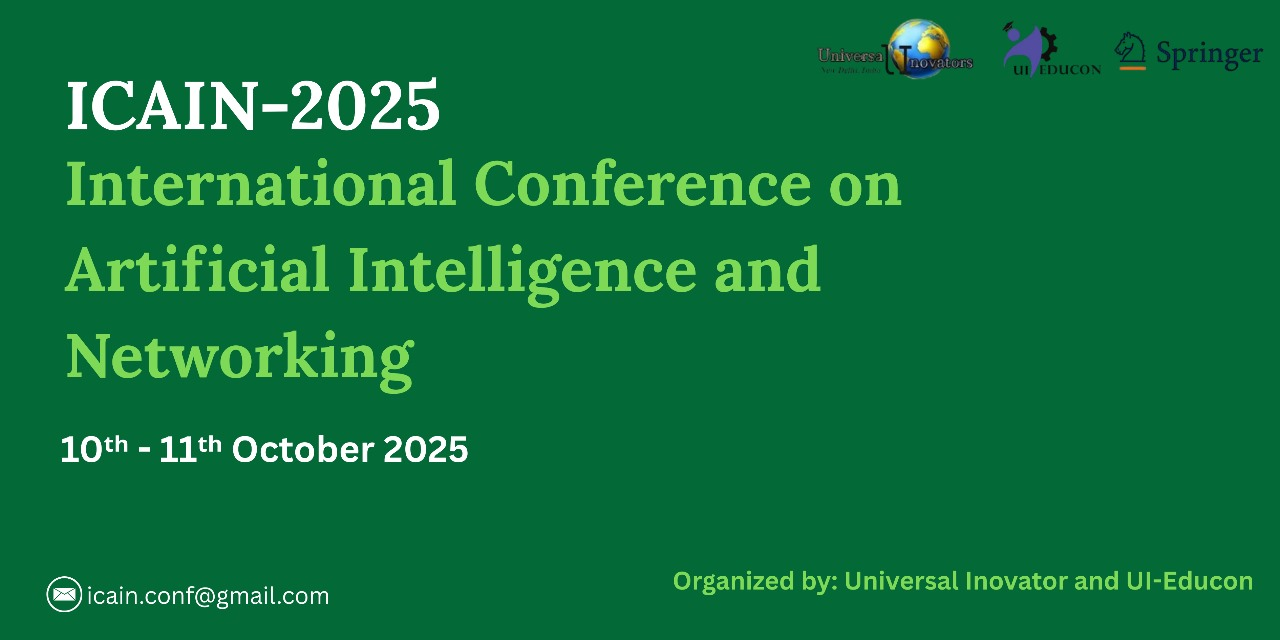
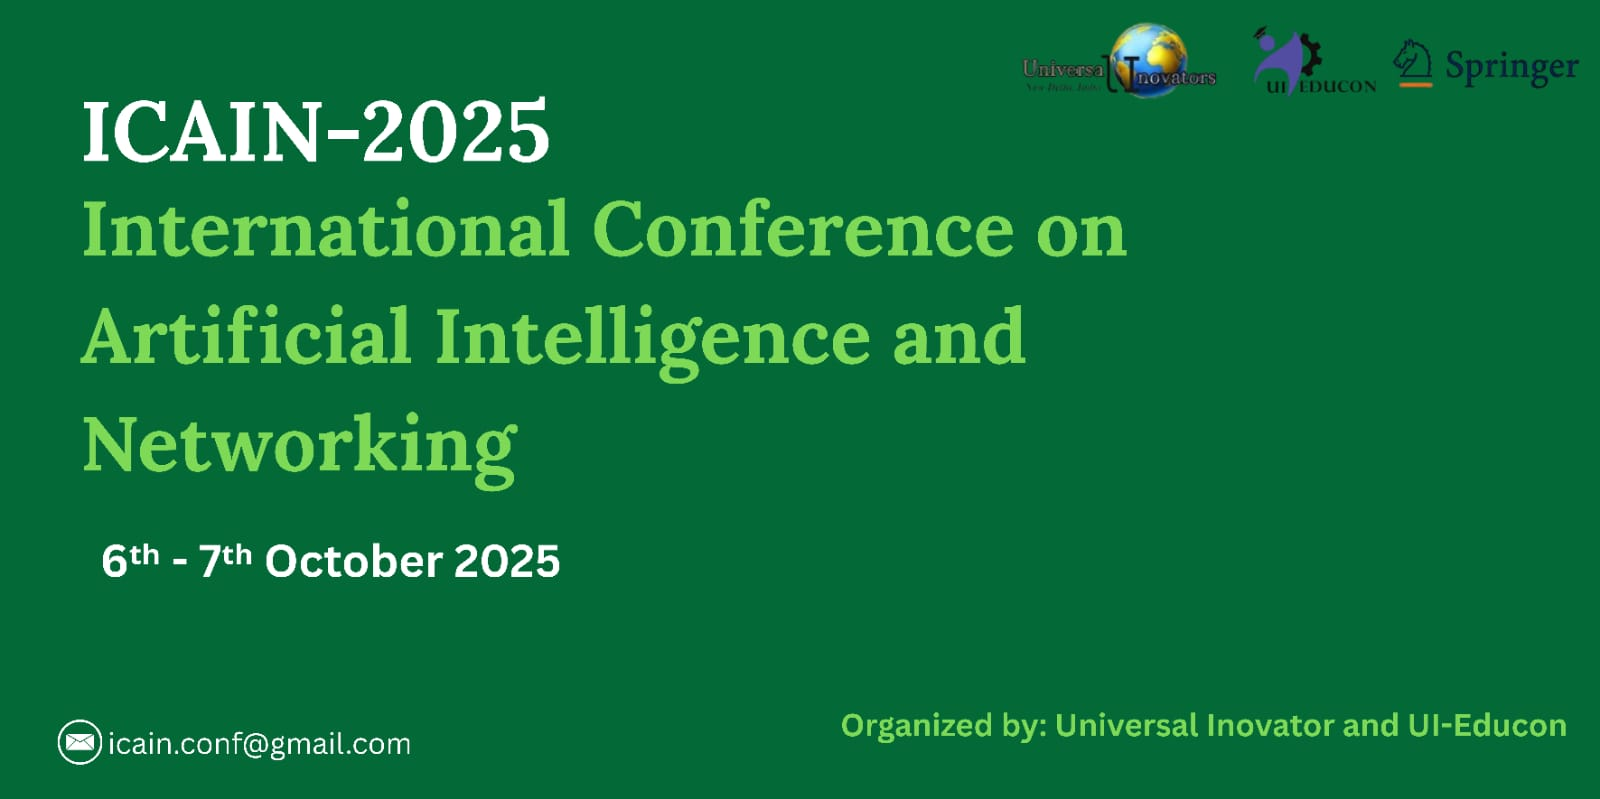
dates

diff --git a/src/Components/Papers/Call_for_Special/Call_for_Special.jsx b/src/Components/Papers/Call_for_Special/Call_for_Special.jsx
@@ -13,7 +13,7 @@ const Call_for_Special = () => {
           <p className="CfSletter">
             Greeting from ICAIN-2025!<br/>
             The ICAIN-2025 Conference team is pleased to invite you to organise a special session at the inaugural <b>International Conference on Artificial Intelligence and Networking (ICAIN-2025)</b>which will be held on
-            <b> 10th - 11th October 2025. </b> We are committed to bringing together some of the most knowledgeable researchers and industry leaders from around the world to explore key topics in the field of research. This two-day conference will feature workshops, technical sessions, and keynote presentations on cutting-edge technologies relevant to our industry. The conference website:{" "}
+            <b> 6th - 7th October 2025. </b> We are committed to bringing together some of the most knowledgeable researchers and industry leaders from around the world to explore key topics in the field of research. This two-day conference will feature workshops, technical sessions, and keynote presentations on cutting-edge technologies relevant to our industry. The conference website:{" "}
             <a href="www.icain-conf.com" style={{textDecoration:'none',color:"var(--color-green)"}}>
               icain-conf.com
             </a>

diff --git a/src/Components/Papers/Call_for_papers/Call_for_papers.jsx b/src/Components/Papers/Call_for_papers/Call_for_papers.jsx
@@ -9,7 +9,7 @@ const Call_for_papers = () => {
         <div className="Call_con">
           <div className="call_desc">
             <p style={{color:"black"}}>
-             We are pleased to announce the upcoming "International Conference on Artificial Intelligence and Networking" (ICAIN), which will be held from         <b> 10th - 11th October 2025 </b>. ICAIN is a premier forum for researchers, professionals, and practitioners from academia and industry to exchange knowledge and share the latest advancements in the fields of computer science and information technology. We invite researchers and experts worldwide to
+             We are pleased to announce the upcoming "International Conference on Artificial Intelligence and Networking" (ICAIN), which will be held from         <b> 6th - 7th October 2025 </b>. ICAIN is a premier forum for researchers, professionals, and practitioners from academia and industry to exchange knowledge and share the latest advancements in the fields of computer science and information technology. We invite researchers and experts worldwide to
              submit their original research papers and participate in this prestigious event.
             </p>
             <br />

diff --git a/src/Components/Header/header.jsx b/src/Components/Header/header.jsx
@@ -68,7 +68,7 @@ function HeaderMain() {
             <span className="hblue"> Keshav Mahavidyalaya, Delhi University</span> */}
           </p>
           <p className="hspringer">Springer LNNS (Indexed in DBLP EI Compendex, INSPEC, SCImago, SCOPUS , WTI AG, zbMATH)</p>
-          <p style={{ "color": "green" }}>10th - 11th October 2025<br /><span ></span></p>
+          <p style={{ "color": "green" }}>6th - 7th October 2025<br /><span ></span></p>
         </div>
       </div>
 

diff --git a/src/Components/Papers/Call_for_International/Call_for_international.jsx b/src/Components/Papers/Call_for_International/Call_for_international.jsx
@@ -11,7 +11,7 @@ const Call_for_international = () => {
 
           <p>
             Greeting from ICAIN-2025! <br/>The ICAIN Conference team is pleased to invite you to organise an <b>International Workshop at the International Conference on Artificial Intelligence and Networking (ICAIN-2025)</b>,which will be held on
-            <b> 10th - 11th October 2025. </b>
+            <b> 6th - 7th October 2025. </b>
           
           </p>
 

diff --git a/src/Components/AwardsSection/Award.jsx b/src/Components/AwardsSection/Award.jsx
@@ -30,7 +30,7 @@ function Awards() {
           </div>
           <div className="detail-box">
             <span className="label">📅 Date:</span>
-            <span className="value">10th – 11th October, 2025</span>
+            <span className="value">6th – 7th October, 2025</span>
           </div>
           <div className="detail-box full-width">
             <span className="label">🎯 Organized by:</span>

diff --git a/src/Components/ImpNotices/ImpNtext.jsx b/src/Components/ImpNotices/ImpNtext.jsx
@@ -2,7 +2,7 @@ import React from "react";
 
 const arr = [
   {
-    h4: "ICAIN-2025 will be organised on 10th - 11th October 2025.",
+    h4: "ICAIN-2025 will be organised on 6th - 7th October 2025.",
   },
 ];
 const ImpNtext = () => {

diff --git a/src/Components/ImpNotices/impNotices.jsx b/src/Components/ImpNotices/impNotices.jsx
@@ -3,7 +3,7 @@ import "./impNotices.css";
 
 const arr = [
   {
-    h4: "ICAIN-2025 will be organised on 10th - 11th October 2025.",
+    h4: "ICAIN-2025 will be organised on 6th - 7th October 2025.",
   },
 ];
 

diff --git a/src/Components/impDates/impDates.jsx b/src/Components/impDates/impDates.jsx
@@ -27,7 +27,7 @@ const arr = [
   },
   {
     h4: "Conference Date",
-    p: "10th - 11th October 2025",
+    p: "6th - 7th October 2025",
   },
   // {
   //   h4: "Registration Deadline",

diff --git a/src/Components/impDates/impDtext.jsx b/src/Components/impDates/impDtext.jsx
@@ -26,7 +26,7 @@ const arr = [
   },
   {
     h4: "Conference Date",
-    p: "10th - 11th October 2025",
+    p: "6th - 7th October 2025",
   },
   // {
   //   h4: "Registration Deadline",
